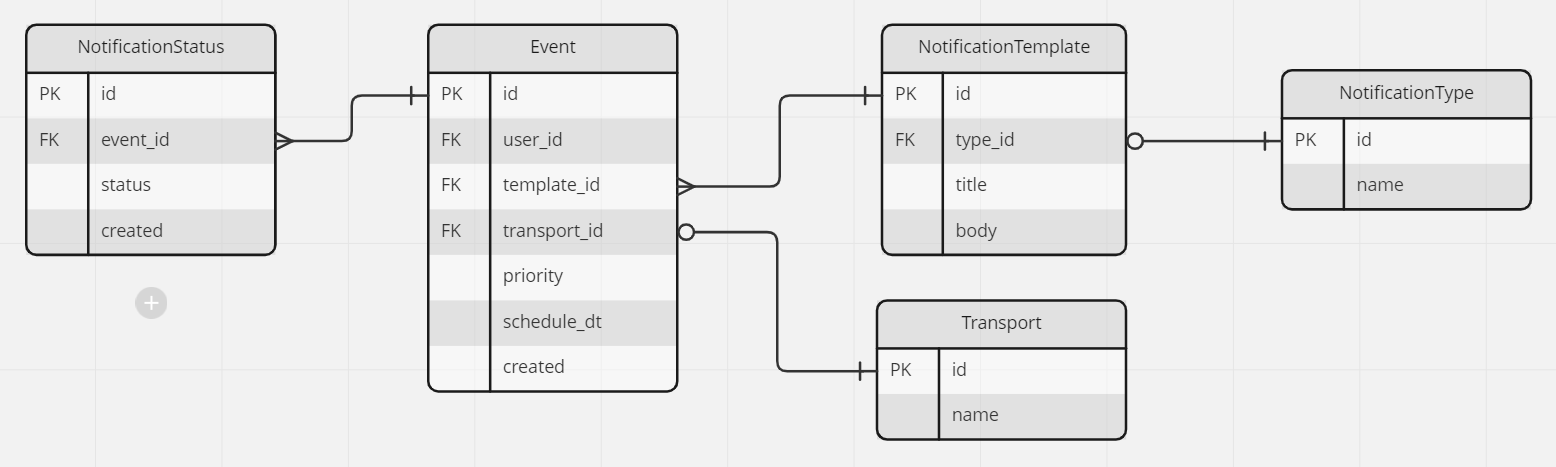
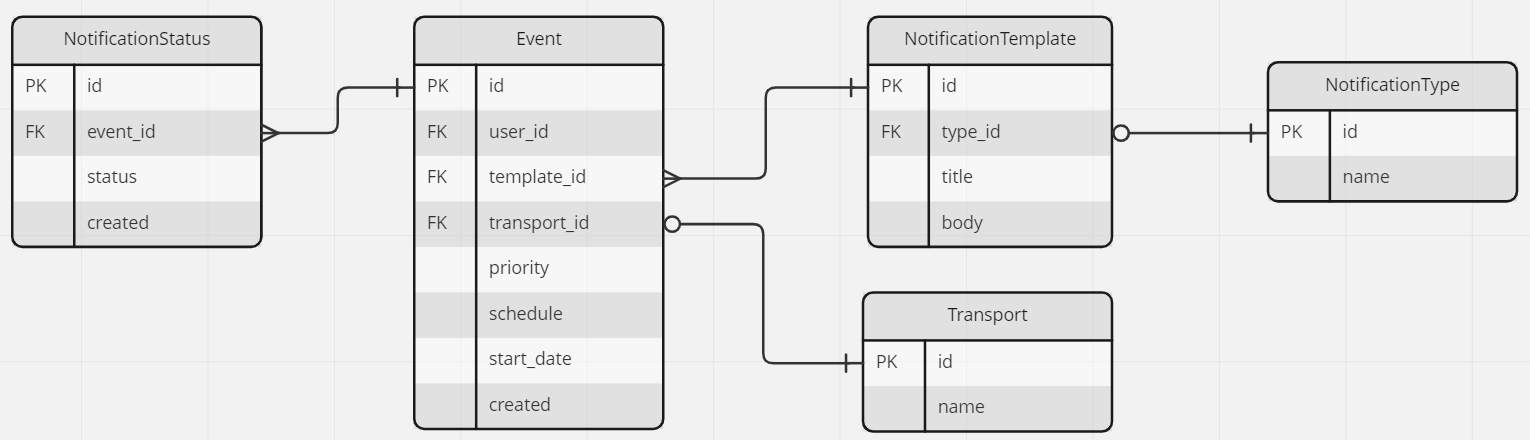
update readme

diff --git a/architecture/README.md b/architecture/README.md
@@ -1,0 +1,92 @@
+# Описание архитектуры сервиса нотификаций
+
+## Связь компонентов
+[Ссылка на Miro](https://miro.com/welcomeonboard/VGJIcHM5MXZIdVFQM1JscFBVNTRpWXJiSFIxMEFrZGpKRDRjU05Wck5XZXZ5RkllQUhHZEhJd2pORGF3NmFaQ3wzNDU4NzY0NTI5MDgxMzEwMDYx?share_link_id=551609151149)
+![](components.png)
+
+## Схема базы данных
+[Ссылка на Miro](https://miro.com/welcomeonboard/ZkpwbFRqYTB1dlZDVTk0UDdnSXJhVzdNSEVabk4zRGl0MjNYZk9memhIQXlnT2ZIaEtRTFdrT2MzdGVSaXY3QXwzNDU4NzY0NTI5MDgxMzEwMDYx?share_link_id=406306079554)
+![](database_scheme.png)
+
+## Модели данных Notification API
+### Входящие
+```json
+{
+    "event_type": event_type,
+    "created_dt": created_dt,
+    "schedule": "5 4 * * *",
+    "start_dt": null,
+    "priority": 1,
+    "payload": {
+        "user": [user_id_1, user_id_2, ...],
+        "content": [movie_id_1, movie_id_2, ...]
+    }
+}
+```
+где event_type представлен для типов событий:
+- вышла новая серия
+- лайк комментария
+- реклама новинок
+- напоминание об отложенных
+
+### Исходящие (подготовленные для воркера)
+```json
+{
+    "event_type": event_type,
+    "created_dt": created_dt,
+    "transport_type": ["email", "sms", "push"],
+    "priority": 1,
+    "payload": {
+        "user": [
+          {
+            "user_id": user_id,
+            "last_name": last_name,
+            "first_name": first_name,
+            "email": email,
+            "birthday_date": birthday_date
+          }, ...
+        ],
+        "content": [
+          {
+            "movie_id": movie_id,
+            "season": null,
+            "episode": null,
+            "release_date": release_date
+          }, ...
+        ]
+    }
+}
+```
+
+## Описание работы
+### Notification Event API
+1) Notification Event API (в дальнейшем просто API) является единой точкой входа для событий, по которым надо делать рассылку. 
+Представляет собой асинхронный FastAPI-сервис с одним эндоинтом для принятия событий 
+по шаблону из пункта `Модели данных Notification API - Входящие`.
+2) После получения события API дополняет информацию из Auth API + UGC API и формирует конечную модель.
+3) Записывает данные в БД.
+4) Отсылает на воркер через шину RabbitMQ.
+
+### Генератор периодических событий
+1) Этот сервис так же, как и Notification Event API, является асинхронным FastAPI-сервис в связке с Celery как планировщиком.
+2) Данные для планирования берутся из БД.
+3) Планировщик должен уметь добавлять таски с динамически построенным расписанием 
+(вычитывается из полей start_day, schedule в формате cron).
+4) Celery при срабатывания расписания передает информацию генератору-API,
+тот, в свою очередь, передает данные в Notification Event API.
+
+### Шина данных RabbitMQ
+1) Принимает информацию от Notification Event API и пересылает ее в воркер.
+2) Имеет несколько очередей, разделенных по приоритетам уведомлений (поле priority).
+
+### Воркер
+1) Представляет собой обычный python-сервис, работающий в бесконечном цикле.
+2) Асинхронно вычитывает разные очереди и в зависимости от типа посылает уведомления.
+
+## Вопросы
+1) Стоит ли заводить в указанную БД таблицы для хранения данных из п.1?
+2) Для групп рассылки и индивидуальных получателей можно завести таблицу receivers,
+где для групп получателей будем заведен единый id, для индивидуальных там же присвоен свой id,
+тогда API будет проверять есть ли group_id со всеми этими пользователями и, если нет, создавать новую группу.
+3) Где описать логику отсылки уведомлений в зависимости от типа (sms, push, email) - 
+для них должны быть отдельно стоящие сервисы или всем должен заниматься воркер?
